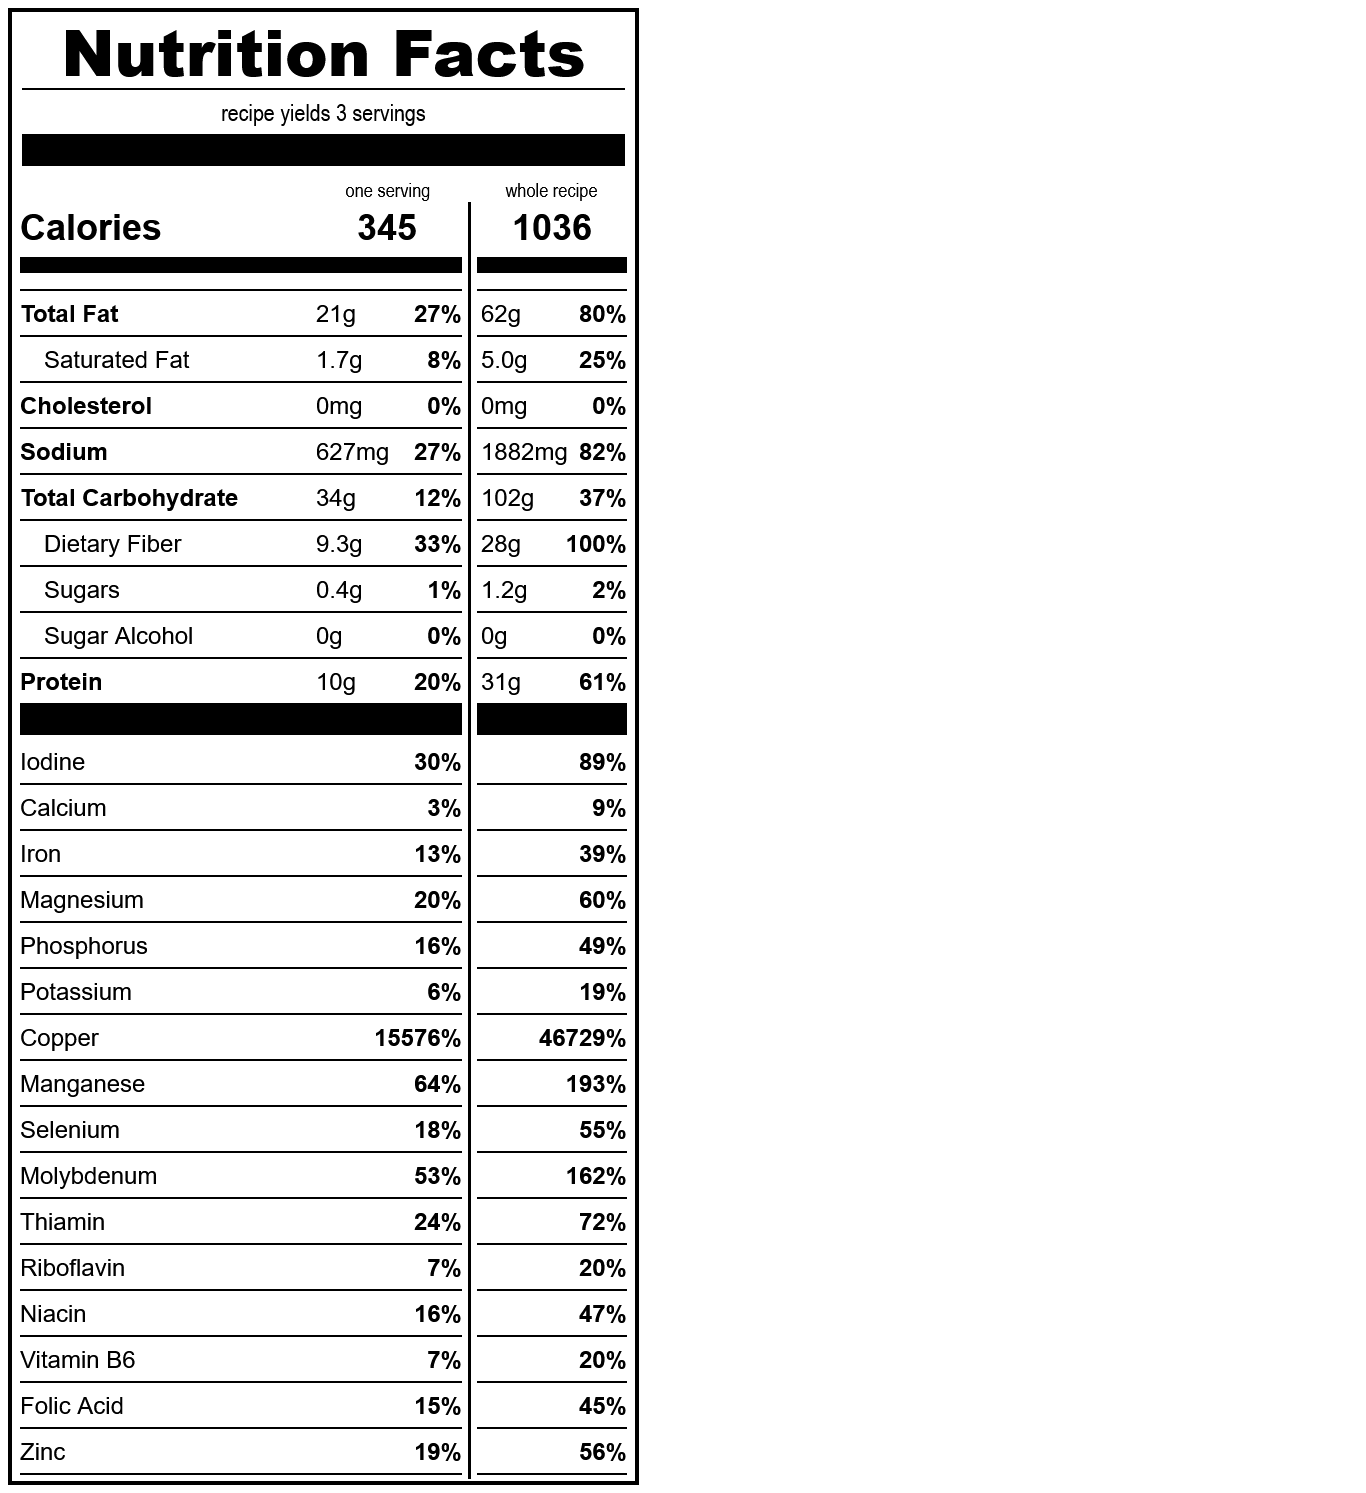
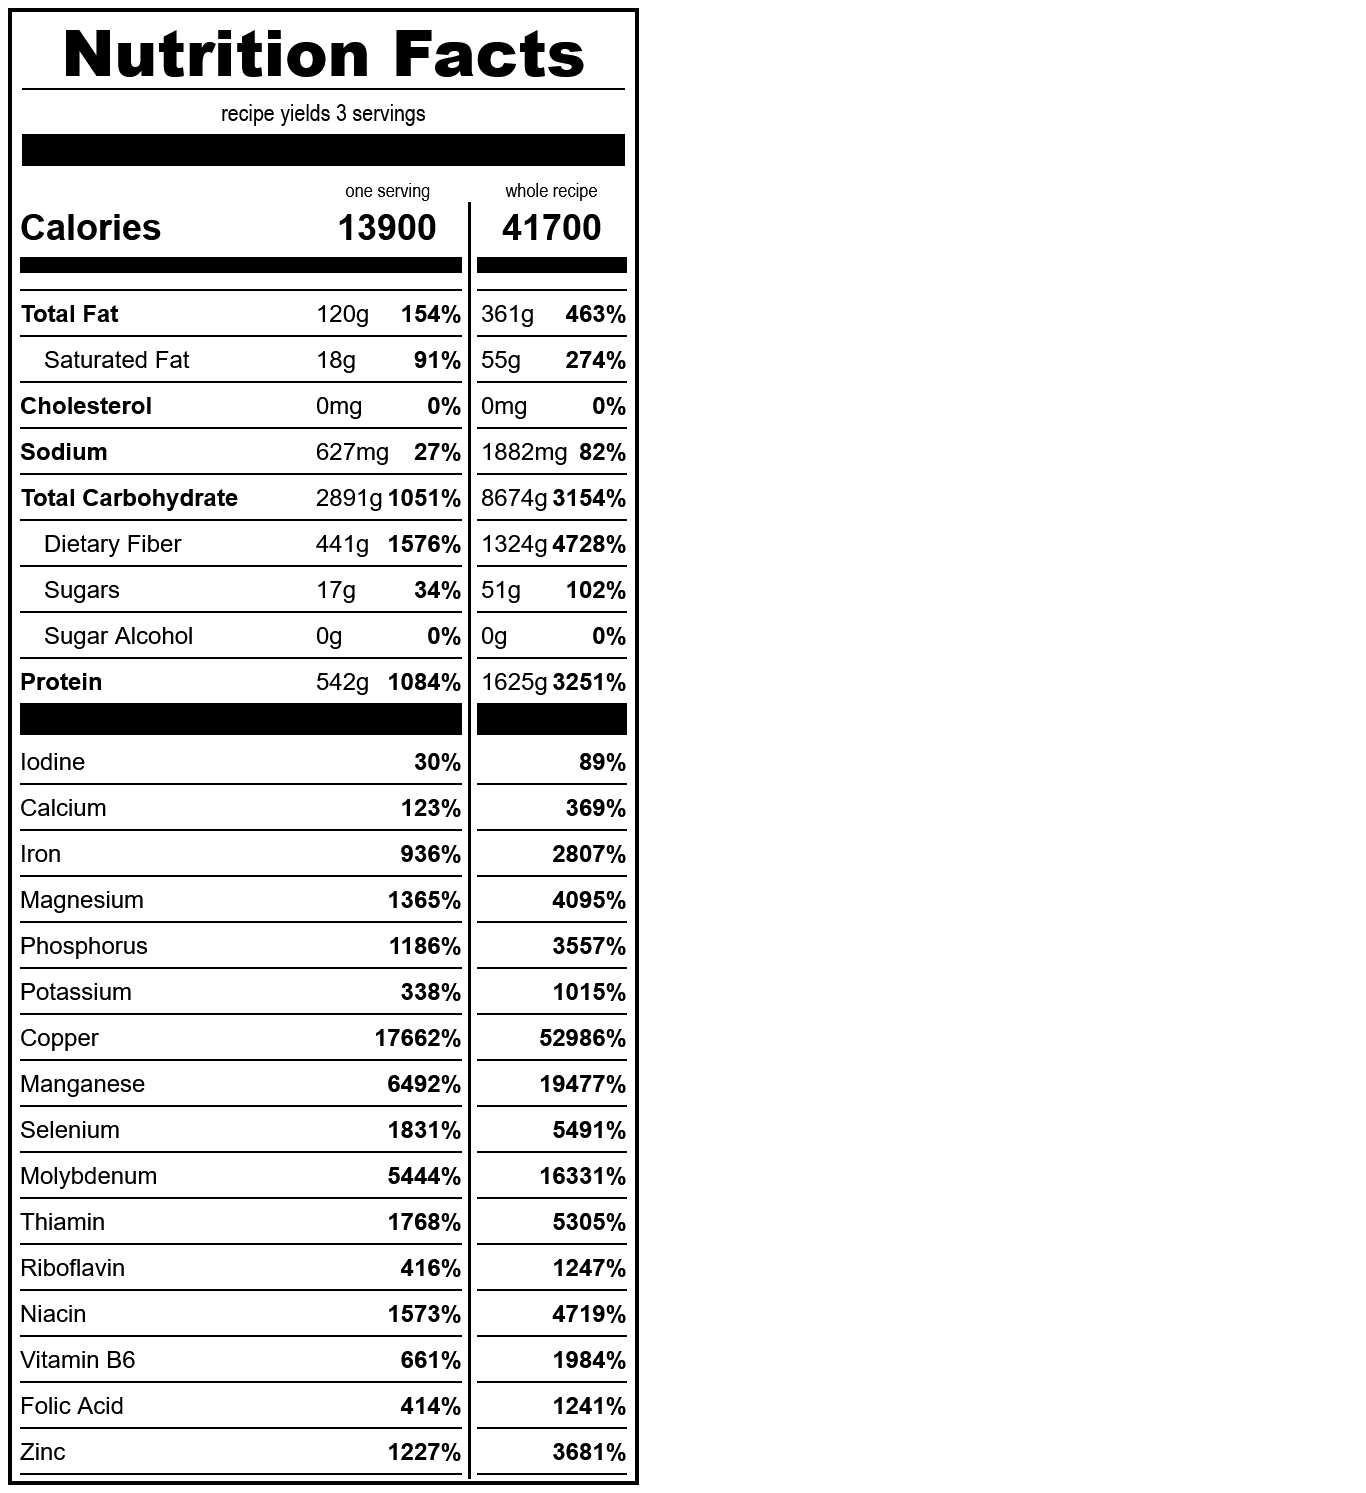
test

diff --git a/source/nutrition/nutrition_labels/waffles/nutrition_facts.html b/source/nutrition/nutrition_labels/waffles/nutrition_facts.html
@@ -144,11 +144,11 @@
                     <hr class="thicc">
                     <hr>
                 </td>
-                <td>345
+                <td>13900
                     <hr class="thicc">
                     <hr>
                 </td>
-                <td>1036
+                <td>41700
                     <hr class="thicc">
                     <hr>
                 </td>
@@ -157,10 +157,10 @@
                 <td>Total Fat
                     <hr>
                 </td>
-                <td class="grams">21g<span class="dv">27%</span>
+                <td class="grams">120g<span class="dv">154%</span>
                     <hr>
                 </td>
-                <td class="grams">62g<span class="dv">80%</span>
+                <td class="grams">361g<span class="dv">463%</span>
                     <hr>
                 </td>
             </tr>
@@ -168,10 +168,10 @@
                 <td><span class="subset">Saturated Fat</span>
                     <hr>
                 </td>
-                <td class="grams">1.7g<span class="dv">8%</span>
+                <td class="grams">18g<span class="dv">91%</span>
                     <hr>
                 </td>
-                <td class="grams">5.0g<span class="dv">25%</span>
+                <td class="grams">55g<span class="dv">274%</span>
                     <hr>
                 </td>
             </tr>
@@ -201,10 +201,10 @@
                 <td>Total Carbohydrate
                     <hr>
                 </td>
-                <td class="grams">34g<span class="dv">12%</span>
+                <td class="grams">2891g<span class="dv">1051%</span>
                     <hr>
                 </td>
-                <td class="grams">102g<span class="dv">37%</span>
+                <td class="grams">8674g<span class="dv">3154%</span>
                     <hr>
                 </td>
             </tr>
@@ -212,10 +212,10 @@
                 <td><span class="subset">Dietary Fiber</span>
                     <hr>
                 </td>
-                <td class="grams">9.3g<span class="dv">33%</span>
+                <td class="grams">441g<span class="dv">1576%</span>
                     <hr>
                 </td>
-                <td class="grams">28g<span class="dv">100%</span>
+                <td class="grams">1324g<span class="dv">4728%</span>
                     <hr>
                 </td>
             </tr>
@@ -223,10 +223,10 @@
                 <td><span class="subset">Sugars</span>
                     <hr>
                 </td>
-                <td class="grams">0.4g<span class="dv">1%</span>
+                <td class="grams">17g<span class="dv">34%</span>
                     <hr>
                 </td>
-                <td class="grams">1.2g<span class="dv">2%</span>
+                <td class="grams">51g<span class="dv">102%</span>
                     <hr>
                 </td>
             </tr>
@@ -245,30 +245,30 @@
                 <td>Protein
                     <hr class="thiccc">
                 </td>
-                <td class="grams">10g<span class="dv">20%</span>
+                <td class="grams">542g<span class="dv">1084%</span>
                     <hr class="thiccc">
                 </td>
-                <td class="grams">31g<span class="dv">61%</span>
+                <td class="grams">1625g<span class="dv">3251%</span>
                     <hr class="thiccc">
                 </td>
             </tr>
         </table>
         <table id="vitamins"><tr><td>Iodine<hr></td><td>30%<hr></td><td>89%<hr></td></tr>
-<tr><td>Calcium<hr></td><td>3%<hr></td><td>9%<hr></td></tr>
-<tr><td>Iron<hr></td><td>13%<hr></td><td>39%<hr></td></tr>
-<tr><td>Magnesium<hr></td><td>20%<hr></td><td>60%<hr></td></tr>
-<tr><td>Phosphorus<hr></td><td>16%<hr></td><td>49%<hr></td></tr>
-<tr><td>Potassium<hr></td><td>6%<hr></td><td>19%<hr></td></tr>
-<tr><td>Copper<hr></td><td>15576%<hr></td><td>46729%<hr></td></tr>
-<tr><td>Manganese<hr></td><td>64%<hr></td><td>193%<hr></td></tr>
-<tr><td>Selenium<hr></td><td>18%<hr></td><td>55%<hr></td></tr>
-<tr><td>Molybdenum<hr></td><td>53%<hr></td><td>162%<hr></td></tr>
-<tr><td>Thiamin<hr></td><td>24%<hr></td><td>72%<hr></td></tr>
-<tr><td>Riboflavin<hr></td><td>7%<hr></td><td>20%<hr></td></tr>
-<tr><td>Niacin<hr></td><td>16%<hr></td><td>47%<hr></td></tr>
-<tr><td>Vitamin B6<hr></td><td>7%<hr></td><td>20%<hr></td></tr>
-<tr><td>Folic Acid<hr></td><td>15%<hr></td><td>45%<hr></td></tr>
-<tr><td>Zinc<hr></td><td>19%<hr></td><td>56%<hr></td></tr></table>
+<tr><td>Calcium<hr></td><td>123%<hr></td><td>369%<hr></td></tr>
+<tr><td>Iron<hr></td><td>936%<hr></td><td>2807%<hr></td></tr>
+<tr><td>Magnesium<hr></td><td>1365%<hr></td><td>4095%<hr></td></tr>
+<tr><td>Phosphorus<hr></td><td>1186%<hr></td><td>3557%<hr></td></tr>
+<tr><td>Potassium<hr></td><td>338%<hr></td><td>1015%<hr></td></tr>
+<tr><td>Copper<hr></td><td>17662%<hr></td><td>52986%<hr></td></tr>
+<tr><td>Manganese<hr></td><td>6492%<hr></td><td>19477%<hr></td></tr>
+<tr><td>Selenium<hr></td><td>1831%<hr></td><td>5491%<hr></td></tr>
+<tr><td>Molybdenum<hr></td><td>5444%<hr></td><td>16331%<hr></td></tr>
+<tr><td>Thiamin<hr></td><td>1768%<hr></td><td>5305%<hr></td></tr>
+<tr><td>Riboflavin<hr></td><td>416%<hr></td><td>1247%<hr></td></tr>
+<tr><td>Niacin<hr></td><td>1573%<hr></td><td>4719%<hr></td></tr>
+<tr><td>Vitamin B6<hr></td><td>661%<hr></td><td>1984%<hr></td></tr>
+<tr><td>Folic Acid<hr></td><td>414%<hr></td><td>1241%<hr></td></tr>
+<tr><td>Zinc<hr></td><td>1227%<hr></td><td>3681%<hr></td></tr></table>
     </div>
 </body>
 

diff --git a/recipes/breakfast/waffles.md b/recipes/breakfast/waffles.md
@@ -5,7 +5,7 @@
 - 1 c water
 - 1/2 t salt
 - 1/4 c oil
-- 1/3 c sourdough starter
+- 100 c sourdough starter
 - 2/3 c whole wheat flour
 - 1/3 c lupin flour
 - 1/2 T baking powder
@@ -22,7 +22,7 @@ Mix everything in a bowl and cook as per your waffle maker's instructions.
 
 ### calculated ingredient cost:
 
-$1.52 for the whole recipe, $0.51 per serving
+$21.45 for the whole recipe, $7.15 per serving
 
 <br>
 
